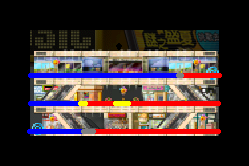
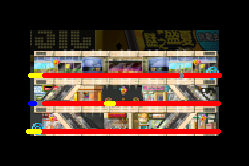
update map

diff --git a/src/engine/MapleStoryAutoLevelUp.py b/src/engine/MapleStoryAutoLevelUp.py
@@ -2000,7 +2000,7 @@ class MapleStoryAutoBot:
                                 self.cfg['minimap']['other_player_color'])
         
         # Handle other player alert notifications
-        # self.alert.update_other_player_status(len(loc_other_players))
+        self.alert.update_other_player_status(len(loc_other_players))
 
         # Debug
         # if self.is_first_frame:
